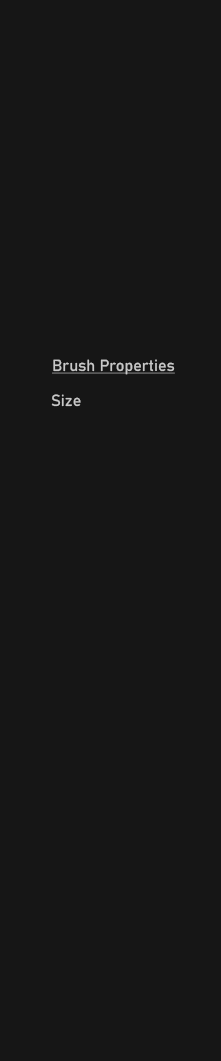
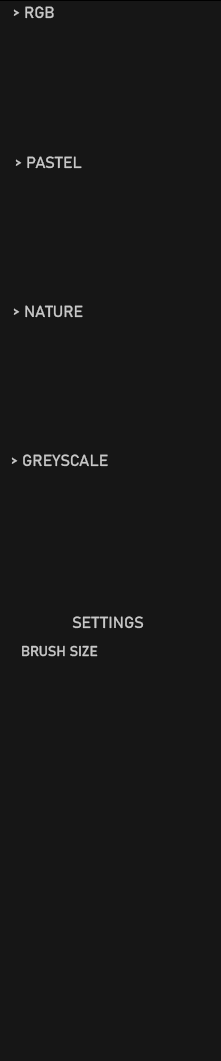
Major update, color palete added
the project is almost complete no wall is left to fix and tweak some features and release it

diff --git a/app.py b/app.py
@@ -124,7 +124,7 @@ def pressedOnEraser(e):
 
 def add_value(e):
     global penwidth
-    if penwidth <= 29:
+    if penwidth <= 49:
         penwidth += 1
         numDisplay.configure(text = penwidth)
     else:
@@ -139,7 +139,7 @@ def sub_value(e):
         pass
 
 def save(e):
-    files = [('JPEG', '*.jpeg'),('PNG', '*.png')]
+    files = [('JPEG', '*.jpeg')]
     file = asksaveasfile(filetypes = files, defaultextension = files)
     myScreenshot = pyautogui.screenshot(region = (72,20 ,1650,1050))
 
@@ -183,80 +183,84 @@ def save_delay(e):
     root.after(2000,save(E))
 
 ## COLOR PALETS
-p1 = Button(frame,bg = '#ff1919',width = 4,height= 2,command=lambda:getColorCodeFromButton("#ff1919"))
-p2 = Button(frame,bg = '#ff7733',width = 4,height= 2,command=lambda:getColorCodeFromButton("#ff7733"))
-p3 = Button(frame,bg = '#ffbb34',width = 4,height= 2,command=lambda:getColorCodeFromButton("#ffbb34"))
-p4 = Button(frame,bg = '#ffff3e',width = 4,height= 2,command=lambda:getColorCodeFromButton("#ffff3e"))
-p5 = Button(frame,bg = '#bbfe33',width = 4,height= 2,command=lambda:getColorCodeFromButton("#bbfe33"))
+p1 = Button(frame,bg = '#ff0000',width = 4,height= 2,command=lambda:getColorCodeFromButton("#ff0000"))
+p2 = Button(frame,bg = '#ffff02',width = 4,height= 2,command=lambda:getColorCodeFromButton("#ffff02"))
+p3 = Button(frame,bg = '#00ff00',width = 4,height= 2,command=lambda:getColorCodeFromButton("#00ff00"))
+p4 = Button(frame,bg = '#00ffff',width = 4,height= 2,command=lambda:getColorCodeFromButton("#00ffff"))
+p5 = Button(frame,bg = '#0200ff',width = 4,height= 2,command=lambda:getColorCodeFromButton("##0200ff"))
 
-p6 = Button(frame,bg = '#bbfe33',width = 4,height= 2,command=lambda:getColorCodeFromButton("#bbfe33"))
-p7 = Button(frame,bg = '#66ff19',width = 4,height= 2,command=lambda:getColorCodeFromButton("#bbfe33"))
-p8 = Button(frame,bg = '#33ff77',width = 4,height= 2,command=lambda:getColorCodeFromButton("#bbfe33"))
-p9 = Button(frame,bg = '#4dfb88',width = 4,height= 2,command=lambda:getColorCodeFromButton("#3233ff"))
-p10 = Button(frame,bg = '#4dffc5',width = 4,height= 2,command=lambda:getColorCodeFromButton("#7734fe"))
+p6 = Button(frame,bg = '#800080',width = 4,height= 2,command=lambda:getColorCodeFromButton("#800080"))
+p7 = Button(frame,bg = '#FF6B6B',width = 4,height= 2,command=lambda:getColorCodeFromButton("#FF6B6B"))
+p8 = Button(frame,bg = '#FF00FF',width = 4,height= 2,command=lambda:getColorCodeFromButton("#FF00FF"))
+p9 = Button(frame,bg = '#A52A2A',width = 4,height= 2,command=lambda:getColorCodeFromButton("#A52A2A"))
+p10 = Button(frame,bg = '#FFC0CB',width = 4,height= 2,command=lambda:getColorCodeFromButton("#FFC0CB"))
 
-p11 = Button(frame,bg = '#33fdfd',width = 4,height= 2)
-p12 = Button(frame,bg = '#34baff',width = 4,height= 2)
-p13 = Button(frame,bg = '#3377fe',width = 4,height= 2)
-p14 = Button(frame,bg = '#3233ff',width = 4,height= 2)
-p15 = Button(frame,bg = 'red',width = 4,height= 2)
 
-p16 = Button(frame2,bg = '#ff7d92',width = 4,height= 2)
-p17 = Button(frame2,bg = '#fcb9c2',width = 4,height= 2)
-p18 = Button(frame2,bg = '#fed3b4',width = 4,height= 2)
-p19 = Button(frame2,bg = '#ffe5ce',width = 4,height= 2)
-p36 = Button(frame2,bg = '#faf8c9',width = 4,height= 2)
+p11 = Button(frame,bg = '#008080',width = 4,height= 2,command=lambda:getColorCodeFromButton("#008080"))
+p12 = Button(frame,bg = '#CCCCFF',width = 4,height= 2,command=lambda:getColorCodeFromButton("#CCCCFF"))
+p13 = Button(frame,bg = '#4B0082',width = 4,height= 2,command=lambda:getColorCodeFromButton("#4B0082"))
+p14 = Button(frame,bg = '#87CEEB',width = 4,height= 2,command=lambda:getColorCodeFromButton("#87CEEB"))
+p15 = Button(frame,bg = '#808000',width = 4,height= 2,command=lambda:getColorCodeFromButton("#808000"))
 
-p20 = Button(frame2,bg = 'black',width = 4,height= 2)
 
-p21 = Button(frame2,bg = '#f4f1e7',width = 4,height= 2)
-p22 = Button(frame2,bg = '#dcd7f4',width = 4,height= 2)
-p23 = Button(frame2,bg = '#c1bbdf',width = 4,height= 2)
-p24 = Button(frame2,bg = '#ccd0fe',width = 4,height= 2)
 
-p25 = Button(frame2,bg = '#f4f1e7',width = 4,height= 2)
+p16 = Button(frame2,bg = '#FFC0CB',width = 4,height= 2,command=lambda:getColorCodeFromButton("#FFC0CB"))
+p17 = Button(frame2,bg = '#AEC6CF',width = 4,height= 2,command=lambda:getColorCodeFromButton("#AEC6CF"))
+p18 = Button(frame2,bg = '#B0E57C',width = 4,height= 2,command=lambda:getColorCodeFromButton("#B0E57C"))
+p19 = Button(frame2,bg = '#FDFD96',width = 4,height= 2,command=lambda:getColorCodeFromButton("#FDFD96"))
+p36 = Button(frame2,bg = '#D7A9E3',width = 4,height= 2,command=lambda:getColorCodeFromButton("#D7A9E3"))
 
-p26 = Button(frame2,bg = 'black',width = 4,height= 2)
-p27 = Button(frame2,bg = 'black',width = 4,height= 2)
-p28 = Button(frame2,bg = 'black',width = 4,height= 2)
-p29 = Button(frame2,bg = 'black',width = 4,height= 2)
-p30 = Button(frame2,bg = 'black',width = 4,height= 2)
+p20 = Button(frame2,bg = '#D7A9E3',width = 4,height= 2,command=lambda:getColorCodeFromButton("#D7A9E3"))
 
-p31 = Button(frame3,bg = '#b99976',width = 4,height= 2)
-p32 = Button(frame3,bg = '#d2b48c',width = 4,height= 2)
-p33 = Button(frame3,bg = '#e5d3b3',width = 4,height= 2)
-p34 = Button(frame3,bg = '#987554',width = 4,height= 2)
-p35 = Button(frame3,bg = '#664229',width = 4,height= 2)
+p21 = Button(frame2,bg = '#FFB347',width = 4,height= 2,command=lambda:getColorCodeFromButton("#FFB347"))
+p22 = Button(frame2,bg = '#FF6B6B',width = 4,height= 2,command=lambda:getColorCodeFromButton("#FF6B6B"))
+p23 = Button(frame2,bg = '#98FB98',width = 4,height= 2,command=lambda:getColorCodeFromButton("#98FB98"))
+p24 = Button(frame2,bg = '#E6E6FA',width = 4,height= 2,command=lambda:getColorCodeFromButton("#E6E6FA"))
 
-p37 = Button(frame3,bg = '#8ba88e',width = 4,height= 2)
-p38= Button(frame3,bg = '#5a786f',width = 4,height= 2)
-p39 = Button(frame3,bg = '#3a4e51',width = 4,height= 2)
-p40 = Button(frame3,bg = '#323e45',width = 4,height= 2)
-p41 = Button(frame3,bg = '#323e45',width = 4,height= 2)
+p25 = Button(frame2,bg = '#FFDAB9',width = 4,height= 2,command=lambda:getColorCodeFromButton("#FFDAB9"))
 
-p42 = Button(frame3,bg = 'orange',width = 4,height= 2)
-p43 =  Button(frame3,bg = 'orange',width = 4,height= 2)
-p44 = Button(frame3,bg = 'orange',width = 4,height= 2)
-p45 = Button(frame3,bg = 'orange',width = 4,height= 2)
-p46 = Button(frame3,bg = 'orange',width = 4,height= 2)
+p26 = Button(frame2,bg = '#A1E7E6',width = 4,height= 2,command=lambda:getColorCodeFromButton("#A1E7E6"))
+p27 = Button(frame2,bg = '#C8A2C8',width = 4,height= 2,command=lambda:getColorCodeFromButton("#C8A2C8"))
+p28 = Button(frame2,bg = '#FE91A4',width = 4,height= 2,command=lambda:getColorCodeFromButton("#FE91A4"))
+p29 = Button(frame2,bg = '#C3CDE6',width = 4,height= 2,command=lambda:getColorCodeFromButton("#C3CDE6"))
+p30 = Button(frame2,bg = '#E2BE8A',width = 4,height= 2,command=lambda:getColorCodeFromButton("#E2BE8A"))
 
-p47 = Button(frame4,bg = 'red',width = 4,height= 2)
-p48 = Button(frame4,bg = 'red',width = 4,height= 2)
-p49 = Button(frame4,bg = 'red',width = 4,height= 2)
-p50 = Button(frame4,bg = 'red',width = 4,height= 2)
-p51 = Button(frame4,bg = 'red',width = 4,height= 2)
+p31 = Button(frame3,bg = '#e5d3b3',width = 4,height= 2,command=lambda:getColorCodeFromButton("#e5d3b3"))
+p32 = Button(frame3,bg = '#d2b48c',width = 4,height= 2,command=lambda:getColorCodeFromButton("#d2b48c"))
+p33 = Button(frame3,bg = '#b99976',width = 4,height= 2,command=lambda:getColorCodeFromButton("#b99976"))
+p34 = Button(frame3,bg = '#987554',width = 4,height= 2,command=lambda:getColorCodeFromButton("#987554"))
+p35 = Button(frame3,bg = '#664229',width = 4,height= 2,command=lambda:getColorCodeFromButton("#664229"))
 
-p52 = Button(frame4,bg = 'red',width = 4,height= 2)
-p53 = Button(frame4,bg = 'red',width = 4,height= 2)
-p54 = Button(frame4,bg = 'red',width = 4,height= 2)
-p55 = Button(frame4,bg = 'red',width = 4,height= 2)
-p56 = Button(frame4,bg = 'red',width = 4,height= 2)
+p37 = Button(frame3,bg = '#8ba88e',width = 4,height= 2,command=lambda:getColorCodeFromButton("#8ba88e"))
+p38= Button(frame3,bg = '#5a786f',width = 4,height= 2,command=lambda:getColorCodeFromButton("#5a786f"))
+p39 = Button(frame3,bg = '#3a4e51',width = 4,height= 2,command=lambda:getColorCodeFromButton("#3a4e51"))
+p40 = Button(frame3,bg = '#323e45',width = 4,height= 2,command=lambda:getColorCodeFromButton("#323e45"))
+p41 = Button(frame3,bg = '#323e45',width = 4,height= 2,command=lambda:getColorCodeFromButton("#323e45"))
 
-p57 = Button(frame4,bg = 'red',width = 4,height= 2)
-p58 = Button(frame4,bg = 'red',width = 4,height= 2)
-p59 = Button(frame4,bg = 'red',width = 4,height= 2)
-p60 = Button(frame4,bg = 'red',width = 4,height= 2)
-p61 = Button(frame4,bg = 'red',width = 4,height= 2)
+p42 = Button(frame3,bg = '#82b3dc',width = 4,height= 2,command=lambda:getColorCodeFromButton("#82b3dc"))
+p43 =  Button(frame3,bg = '#0077bb',width = 4,height= 2,command=lambda:getColorCodeFromButton("#0077bb"))
+p44 = Button(frame3,bg = '#0056a3',width = 4,height= 2,command=lambda:getColorCodeFromButton("#0056a3"))
+p45 = Button(frame3,bg = '#00448b',width = 4,height= 2,command=lambda:getColorCodeFromButton("#00448b"))
+p46 = Button(frame3,bg = '#012a60',width = 4,height= 2,command=lambda:getColorCodeFromButton("#012a60"))
+
+
+p47 = Button(frame4,bg = '#c8cccf',width = 4,height= 2,command=lambda:getColorCodeFromButton("##c8cccf"))
+p48 = Button(frame4,bg = '#b6babd',width = 4,height= 2,command=lambda:getColorCodeFromButton("#b6babd"))
+p49 = Button(frame4,bg = '#a7aaaf',width = 4,height= 2,command=lambda:getColorCodeFromButton("#a7aaaf"))
+p50 = Button(frame4,bg = '#989da3',width = 4,height= 2,command=lambda:getColorCodeFromButton("#989da3"))
+p51 = Button(frame4,bg = '#82878d',width = 4,height= 2,command=lambda:getColorCodeFromButton("#82878d"))
+
+p52 = Button(frame4,bg = '#64696d',width = 4,height= 2,command=lambda:getColorCodeFromButton("#64696d"))
+p53 = Button(frame4,bg = '#42454c',width = 4,height= 2,command=lambda:getColorCodeFromButton("#42454c"))
+p54 = Button(frame4,bg = '#363d45',width = 4,height= 2,command=lambda:getColorCodeFromButton("#363d45"))
+p55 = Button(frame4,bg = '#2b3036',width = 4,height= 2,command=lambda:getColorCodeFromButton("#2b3036"))
+p56 = Button(frame4,bg = '#242529',width = 4,height= 2,command=lambda:getColorCodeFromButton("#242529"))
+
+p57 = Button(frame4,bg = '#36393e',width = 4,height= 2,command=lambda:getColorCodeFromButton("#36393e"))
+p58 = Button(frame4,bg = '#20252b',width = 4,height= 2,command=lambda:getColorCodeFromButton("#20252b"))
+p59 = Button(frame4,bg = '#20252b',width = 4,height= 2,command=lambda:getColorCodeFromButton("#20252b"))
+p60 = Button(frame4,bg = '#17181d',width = 4,height= 2,command=lambda:getColorCodeFromButton("#17181d"))
+p61 = Button(frame4,bg = '#0c0d10',width = 4,height= 2,command=lambda:getColorCodeFromButton("#0c0d10"))
 
 ############## WIDGET GRIDDING #####################
 
@@ -270,13 +274,17 @@ button7.grid(row=41,column = 1,rowspan = 15,columnspan = 1,padx = 0)
 button8.grid(row=50,column = 1,rowspan = 1,columnspan = 1,padx = 11)
 
 subButton = Label(image =subButtonImage,bd=0,bg = "#161616")
-numDisplay = Label(text = f"{penwidth}",fg = '#c8c8c8',bd = 5,bg ="#161616",font = ("Hack",14) )
+numDisplay = Label(text = f"{penwidth}",fg = '#c8c8c8',bd = 5,bg ="#161616",font = ("Hack",12) )
 addButton = Label(image =addbuttonImage,bd=0,bg = "#161616")
 
-frame.grid(row=1,column = 100,rowspan =3 ,columnspan = 5,padx = 12)
-frame2.grid(row=2,column = 100,rowspan =10 ,columnspan = 5,padx = 12)
-frame3.grid(row=3,column = 100,rowspan =25 ,columnspan = 5,padx = 12)
-frame4.grid(row=4,column = 100,rowspan =40 ,columnspan = 5,padx = 12)
+frame.grid(row=1,column = 100,rowspan =3 ,columnspan = 4,padx = 9)
+frame2.grid(row=2,column = 100,rowspan =9 ,columnspan = 5)
+frame3.grid(row=3,column = 100,rowspan =24 ,columnspan = 5)
+frame4.grid(row=4,column = 100,rowspan =39 ,columnspan = 5)
+
+subButton.grid(row=5,column = 101,rowspan =90 ,columnspan = 3)
+numDisplay.grid(row=5,column = 102,rowspan =90 ,columnspan = 3)
+addButton.grid(row=5,column = 103,rowspan =90 ,columnspan = 3)
 
 p1.grid(row = 1,column = 1,rowspan = 1,columnspan = 1)
 p2.grid(row = 1,column = 2,rowspan = 1,columnspan = 1)
@@ -391,5 +399,12 @@ editMenu.add_command(label="Line Tool",command=lambda:pressedOnLineBrush(E))
 editMenu.add_command(label="Cascade Tool")
 editMenu.add_command(label="Eraser",command=lambda:pressedOnEraser(E))
 editMenu.add_command(label="Change pen color",command=colourChose)
+
+creditsBar = Menu(menubar, tearoff=0, font=("Hack", 13))
+
+menubar.add_cascade(label="Credits", menu=creditsBar)
+creditsBar.add_separator()
+creditsBar.add_command(label="Developer")
+
 
 root.mainloop()
